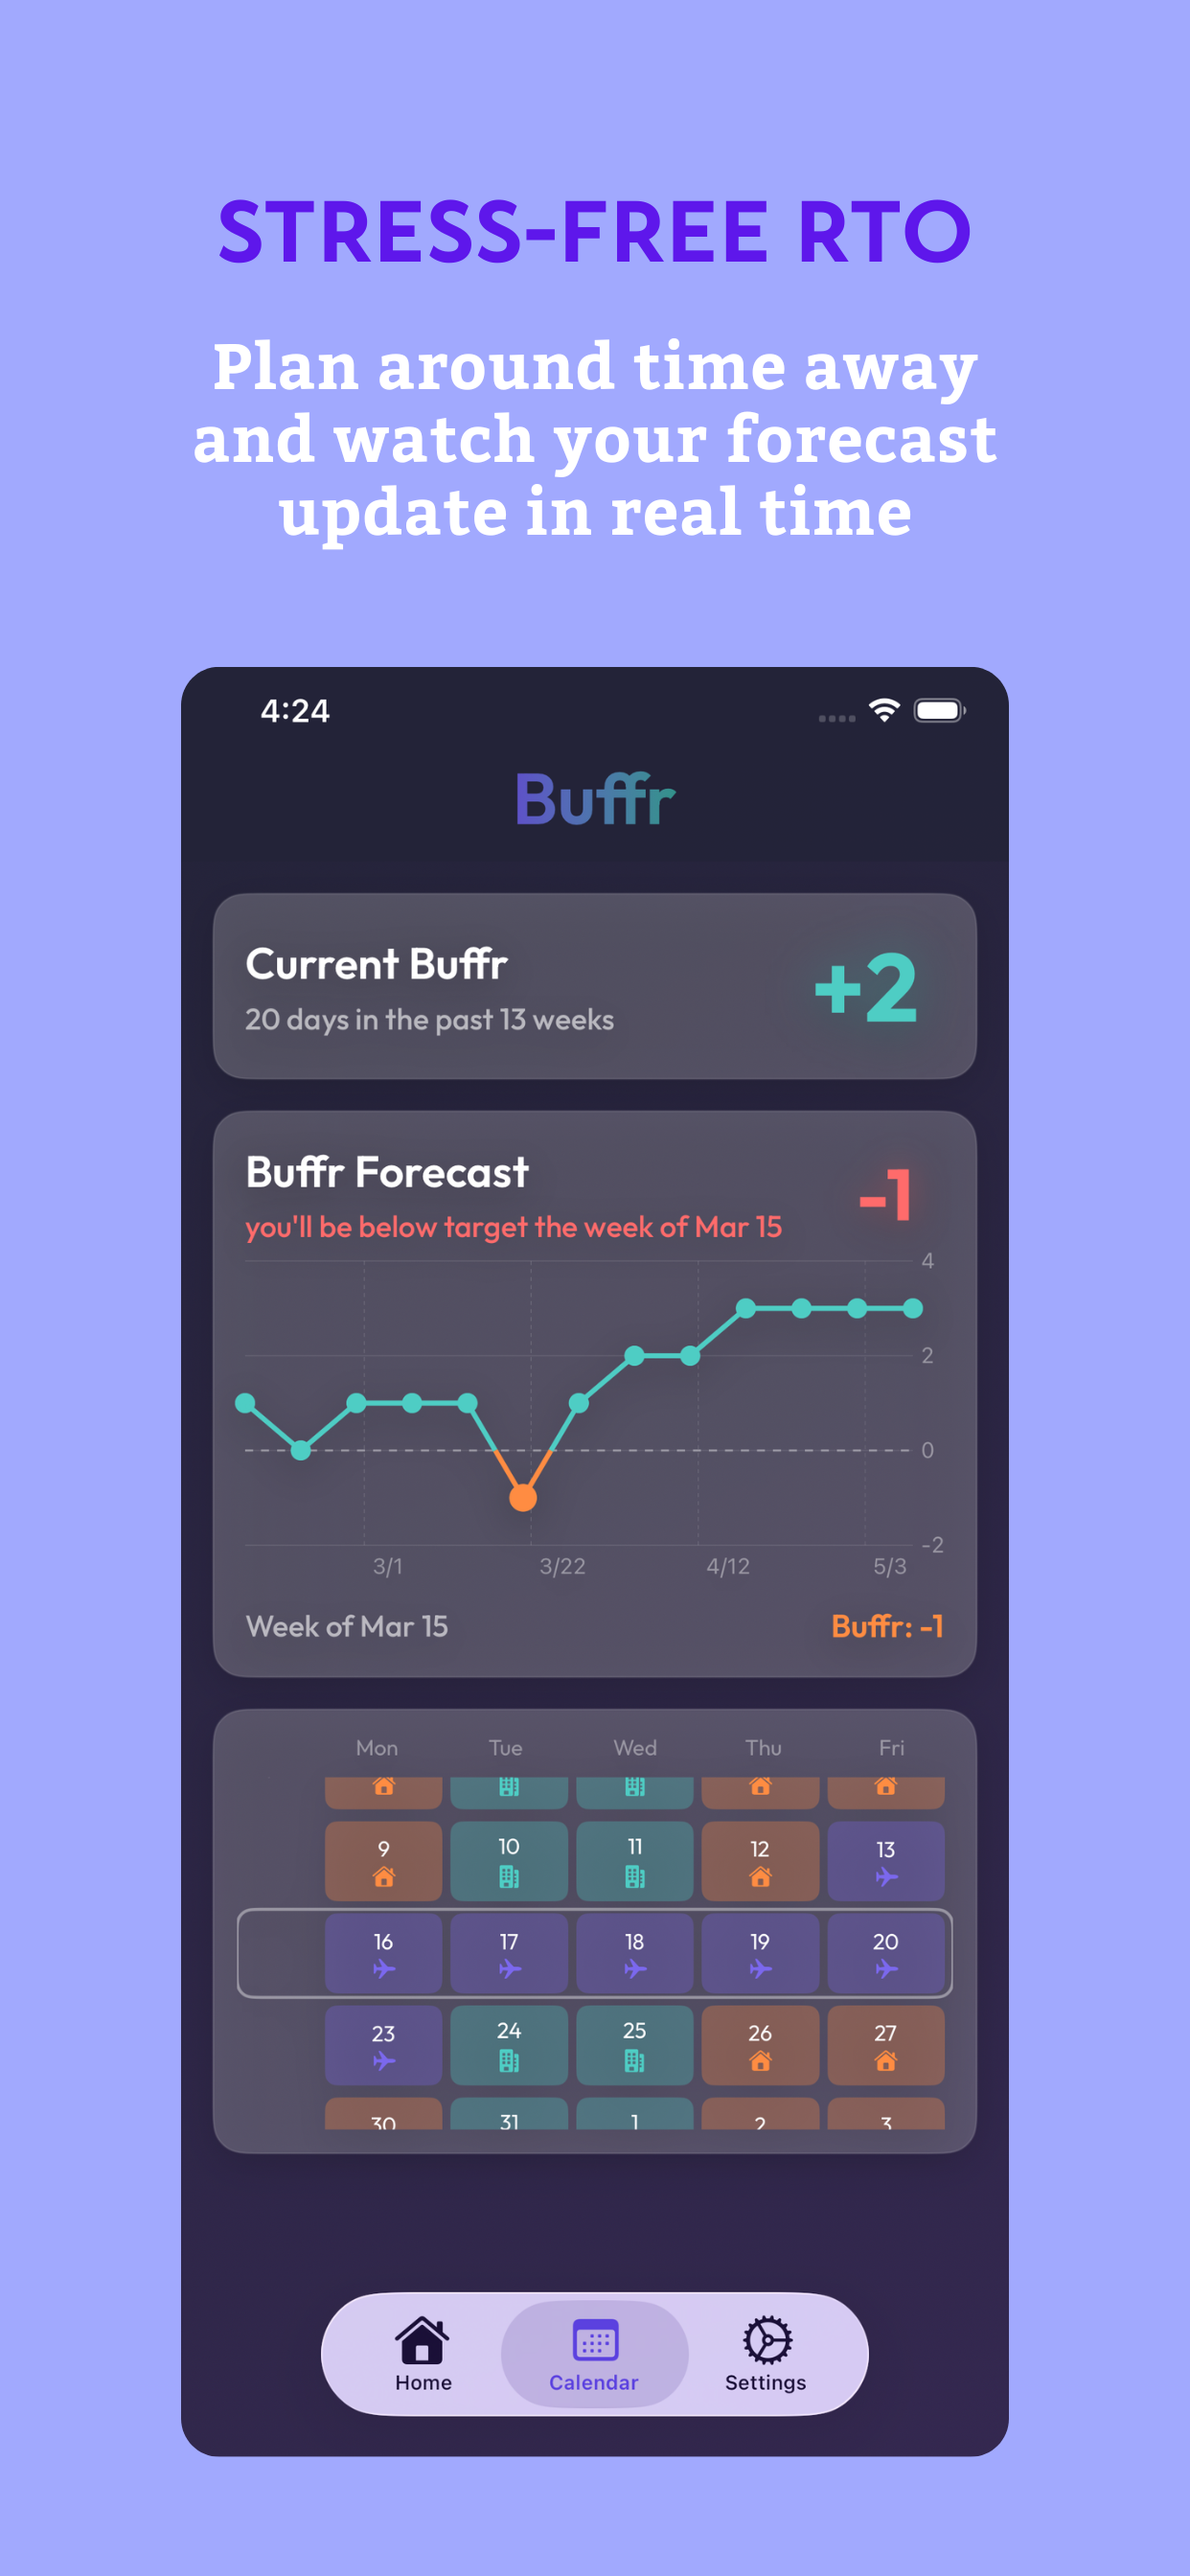
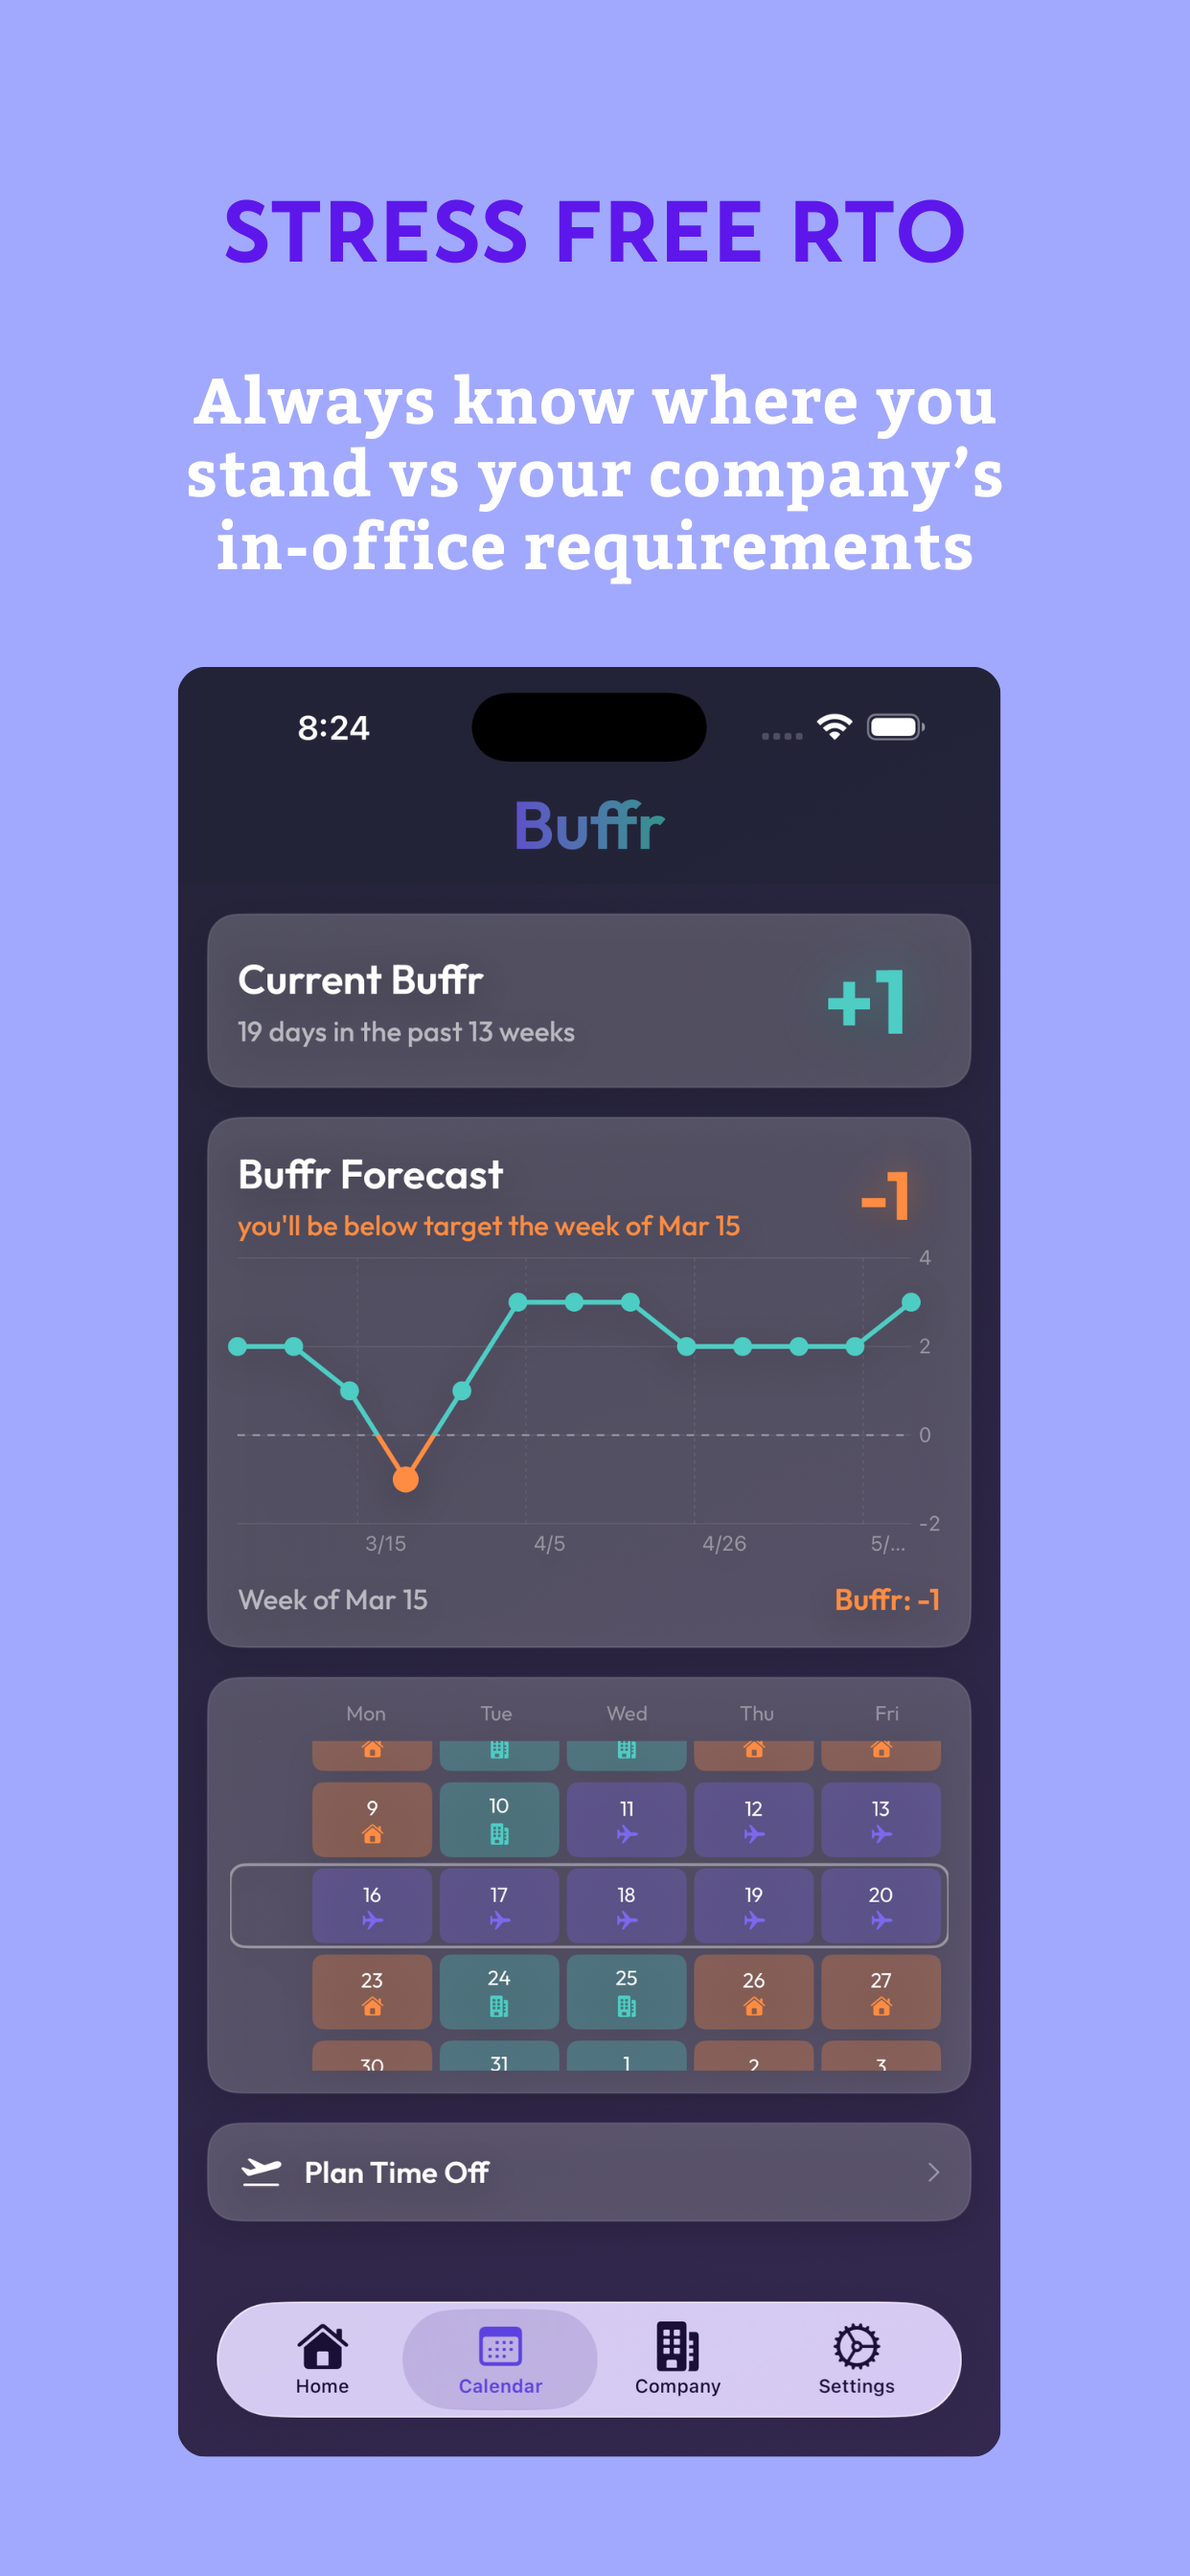
Update website with v1.4 screenshots, features, and copy
- Replace 3 screenshots with 5 updated ones (home, calendar, company, vacation, onboarding)
- Add feature cards for company policy data and vacation planner
- Add FAQ about company policy auto-detection
- Update value prop, structured data, and Pro feature descriptions

diff --git a/index.html b/index.html
@@ -38,7 +38,7 @@
     "name": "Buffr - RTO Tracker",
     "operatingSystem": "iOS",
     "applicationCategory": "BusinessApplication",
-    "description": "Office attendance tracker for hybrid workers. Track your RTO compliance, see how many flex days you have, and forecast ahead.",
+    "description": "Office attendance tracker for hybrid workers. Track against your company's actual RTO policy, see how many flex days you have, forecast ahead, and plan vacations with confidence.",
     "offers": {
       "@type": "Offer",
       "price": "0",
@@ -94,10 +94,18 @@
       },
       {
         "@type": "Question",
+        "name": "Does Buffr know my company's RTO policy?",
+        "acceptedAnswer": {
+          "@type": "Answer",
+          "text": "Buffr maintains a database of RTO policies for many companies. When you search for your company during setup, Buffr can auto-detect both the official policy and how it's actually enforced. You can track against either one, or set up custom rules. If your company isn't in our database, you can configure your policy manually in under a minute."
+        }
+      },
+      {
+        "@type": "Question",
         "name": "Is Buffr free?",
         "acceptedAnswer": {
           "@type": "Answer",
-          "text": "Buffr is free to download and use. Core features like day logging, buffer calculation, and calendar view are included for free. Buffr Pro unlocks advanced features like multi-week forecasting, enforcement monitoring, policy change alerts, and buffer notifications."
+          "text": "Buffr is free to download and use. Core features like day logging, buffer calculation, and calendar view are included for free. Buffr Pro unlocks advanced features like multi-week forecasting, company policy intelligence, vacation impact analysis, policy change alerts, and buffer notifications."
         }
       },
       {
@@ -153,9 +161,11 @@
   <section class="screenshots">
     <div class="container">
       <div class="screenshots-scroll">
-        <img src="assets/screenshot-home.png" alt="Buffr home screen showing your current buffer and weekly status" class="screenshot">
-        <img src="assets/screenshot-calendar.png" alt="Buffr calendar view with forecast chart" class="screenshot">
-        <img src="assets/screenshot-onboarding.png" alt="Buffr one-minute setup flow" class="screenshot">
+        <img src="assets/screenshot-home.png" alt="Buffr home screen — log your work location in seconds, data never leaves your phone" class="screenshot">
+        <img src="assets/screenshot-calendar.png" alt="Buffr calendar view — see your forecast and plan around time off" class="screenshot">
+        <img src="assets/screenshot-company.png" alt="Buffr company tab — official and enforced policy details with Buffr Range chart" class="screenshot">
+        <img src="assets/screenshot-vacation.png" alt="Buffr vacation planner — model how time off affects your buffer" class="screenshot">
+        <img src="assets/screenshot-onboarding.png" alt="Buffr setup — auto-detects your company's RTO policy from our database" class="screenshot">
       </div>
     </div>
   </section>
@@ -163,7 +173,7 @@
   <!-- Value Prop -->
   <section class="value-prop">
     <div class="container">
-      <h2 class="value-text">Buffr is the office attendance tracker built for hybrid work. See your real flexibility in real time — so you can plan your life, not just your commute.</h2>
+      <h2 class="value-text">Buffr is the office attendance tracker built for hybrid work. Track against your company's actual RTO policy, see your real flexibility in real time, and plan your life — not just your commute.</h2>
     </div>
   </section>
 
@@ -179,7 +189,7 @@
             </svg>
           </div>
           <h3>One-tap logging</h3>
-          <p>Log office and work from home days instantly</p>
+          <p>Log office, WFH, vacation, sick, or holiday in seconds</p>
         </div>
         <div class="feature-card">
           <div class="feature-icon">
@@ -189,13 +199,13 @@
             </svg>
           </div>
           <h3>See your buffer</h3>
-          <p>Know how many flex days you have before hitting your RTO threshold</p>
+          <p>Know exactly how many flex days you have before hitting your limit</p>
         </div>
         <div class="feature-card">
           <div class="feature-icon">
             <svg width="28" height="28" viewBox="0 0 24 24" fill="none" stroke="url(#featureGrad3)" stroke-width="2" stroke-linecap="round" stroke-linejoin="round">
               <defs><linearGradient id="featureGrad3" x1="0%" y1="0%" x2="100%" y2="0%"><stop offset="0%" stop-color="#7B68EE"/><stop offset="100%" stop-color="#4ECDC4"/></linearGradient></defs>
-              <polyline points="22 12 18 12 15 21 9 3 6 12 2 12"/>
+              <path d="M3 3v18h18"/><polyline points="18 9 13 14 9 10 3 16"/>
             </svg>
           </div>
           <h3>Forecast ahead</h3>
@@ -205,11 +215,31 @@
           <div class="feature-icon">
             <svg width="28" height="28" viewBox="0 0 24 24" fill="none" stroke="url(#featureGrad4)" stroke-width="2" stroke-linecap="round" stroke-linejoin="round">
               <defs><linearGradient id="featureGrad4" x1="0%" y1="0%" x2="100%" y2="0%"><stop offset="0%" stop-color="#7B68EE"/><stop offset="100%" stop-color="#4ECDC4"/></linearGradient></defs>
+              <path d="M6 2L3 6v14a2 2 0 0 0 2 2h14a2 2 0 0 0 2-2V6l-3-4z"/><line x1="3" y1="6" x2="21" y2="6"/><path d="M16 10a4 4 0 0 1-8 0"/>
+            </svg>
+          </div>
+          <h3>Company policy data</h3>
+          <p>Auto-detect your company's official and enforced RTO policies from our database</p>
+        </div>
+        <div class="feature-card">
+          <div class="feature-icon">
+            <svg width="28" height="28" viewBox="0 0 24 24" fill="none" stroke="url(#featureGrad5)" stroke-width="2" stroke-linecap="round" stroke-linejoin="round">
+              <defs><linearGradient id="featureGrad5" x1="0%" y1="0%" x2="100%" y2="0%"><stop offset="0%" stop-color="#7B68EE"/><stop offset="100%" stop-color="#4ECDC4"/></linearGradient></defs>
+              <path d="M17 3a2.828 2.828 0 1 1 4 4L7.5 20.5 2 22l1.5-5.5L17 3z"/>
+            </svg>
+          </div>
+          <h3>Vacation planner</h3>
+          <p>Model how time off affects your buffer before you book it</p>
+        </div>
+        <div class="feature-card">
+          <div class="feature-icon">
+            <svg width="28" height="28" viewBox="0 0 24 24" fill="none" stroke="url(#featureGrad6)" stroke-width="2" stroke-linecap="round" stroke-linejoin="round">
+              <defs><linearGradient id="featureGrad6" x1="0%" y1="0%" x2="100%" y2="0%"><stop offset="0%" stop-color="#7B68EE"/><stop offset="100%" stop-color="#4ECDC4"/></linearGradient></defs>
               <rect x="3" y="11" width="18" height="11" rx="2" ry="2"/><path d="M7 11V7a5 5 0 0 1 10 0v4"/>
             </svg>
           </div>
           <h3>Private by design</h3>
-          <p>Your attendance data stays on your device. No employer access, ever.</p>
+          <p>Your data stays on your device. No accounts, no tracking, no employer access.</p>
         </div>
       </div>
     </div>
@@ -229,6 +259,10 @@
           <p>Buffr lets you log each workday as office, work from home, vacation, sick, or holiday with a single tap. It then calculates your "buffer" — the number of extra office days you have beyond your company's minimum requirement. Buffr supports both weekly policies (e.g., 3 days per week) and rolling window policies (e.g., 16 days per 8 weeks).</p>
         </details>
         <details class="faq-item">
+          <summary>Does Buffr know my company's RTO policy?</summary>
+          <p>Buffr maintains a database of RTO policies for many companies. When you search for your company during setup, Buffr can auto-detect both the official policy and how it's actually enforced. You can track against either one, or set up custom rules. If your company isn't in our database, you can configure your policy manually in under a minute.</p>
+        </details>
+        <details class="faq-item">
           <summary>Can my employer see my Buffr data?</summary>
           <p>No. Buffr is completely private. All your attendance data is stored locally on your device and is never sent to any server. Your employer has no access to your data, and Buffr doesn't require an account or login. There's no way for anyone — including us — to see your office attendance records.</p>
         </details>
@@ -238,7 +272,7 @@
         </details>
         <details class="faq-item">
           <summary>Is Buffr free?</summary>
-          <p>Buffr is free to download and use. Core features like day logging, buffer calculation, and calendar view are included for free. Buffr Pro unlocks advanced features like multi-week forecasting, enforcement monitoring, policy change alerts, and buffer notifications.</p>
+          <p>Buffr is free to download and use. Core features like day logging, buffer calculation, and calendar view are included for free. Buffr Pro unlocks advanced features like multi-week forecasting, company policy intelligence, vacation impact analysis, policy change alerts, and buffer notifications.</p>
         </details>
         <details class="faq-item">
           <summary>How is Buffr different from a spreadsheet?</summary>
